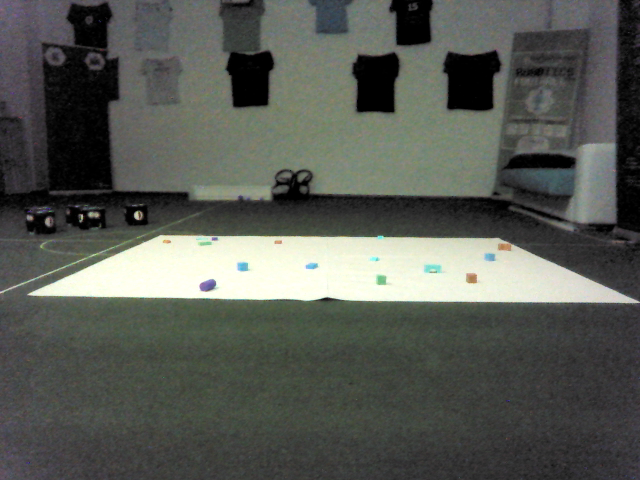
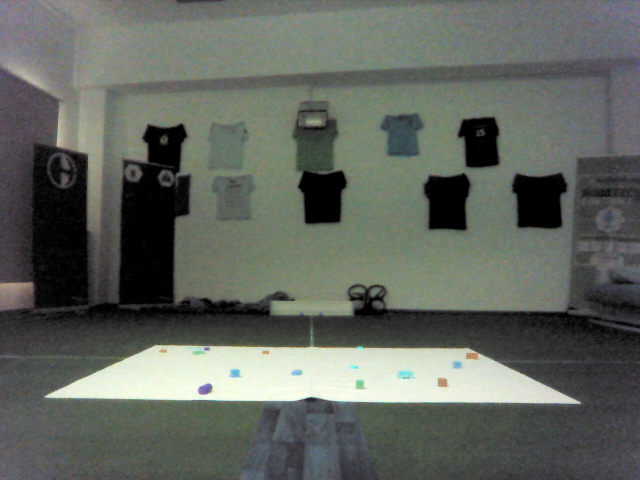
changes moving and perspective parameters

diff --git a/perspective.py b/perspective.py
@@ -14,12 +14,12 @@ hsv = cv2.cvtColor(im, cv2.COLOR_BGR2HSV)
 
 
 # define range of white color in HSV
-lower_green = np.array([110,100,100])
-upper_green = np.array([130,255,255])
+lower_blue = np.array([0,0,168])
+upper_blue = np.array([179,255,255])
 
 
 # Threshold the HSV image to get only green colors
-mask = cv2.inRange(hsv, lower_green, upper_green)
+mask = cv2.inRange(hsv, lower_blue, upper_blue)
 
 
 # Closing 
@@ -42,7 +42,12 @@ topmost = tuple(cnt[cnt[:,:,1].argmin()][0])
 bottommost = tuple(cnt[cnt[:,:,1].argmax()][0])
 rightmost = tuple(cnt[cnt[:,:,0].argmax()][0])
 
-'''
+print leftmost
+print topmost
+print bottommost
+print rightmost
+
+
 # Drawing lines and circles
 hull = cv2.convexHull(cnt,returnPoints = False)
 defects = cv2.convexityDefects(cnt,hull)
@@ -54,11 +59,11 @@ for i in range(defects.shape[0]):
     far = tuple(cnt[f][0])
     cv2.line(im,start,end,[0,255,0],2)
     cv2.circle(im,far,5,[0,0,255],-1)
-'''
+
 
 # Corner coordinates
 #coordinates = [(topmost[0],topmost[1]), (bottommost[0], topmost[1]),(rightmost[0], rightmost[1]), (leftmost[0],leftmost[1])]
-coordinates = [(163,238),(498,241),(633,303),(43,294)]
+coordinates = [(155,348),(471,352),(569,402),(58,394)]
 
 
 # Put coordinates in array
@@ -106,6 +111,6 @@ cv2.imshow("HSV", hsv)
 cv2.imshow("Original", img)
 cv2.imshow("Trapezoid found", im)
 cv2.imshow("Warped", resize)
-cv2.imwrite("areas/edge.jpg",resize)
+#cv2.imwrite("areas/edge.jpg",resize)
 cv2.waitKey(0)
 cv2.destroyAllWindows()

diff --git a/hsv.py b/hsv.py
@@ -2,6 +2,7 @@ import cv2
 import numpy as np
 
 
+cap = cv2.imread("image.png")
 
 def nothing(x):
     pass
@@ -18,7 +19,7 @@ cv2.createTrackbar('v', 'result',0,255,nothing)
 
 while(1):
 
-    frame = cv2.imread('image2.png')
+    frame = cv2.imread("image.png")
 
     #converting to HSV
     hsv = cv2.cvtColor(frame,cv2.COLOR_BGR2HSV)

diff --git a/svm.py b/svm.py
@@ -177,7 +177,7 @@ def path():
 
 	    cv2.imwrite('areas/area-path.png',img)
 
-# SHOW PICTURES
+            # SHOW PICTURES
 	    org = cv2.imread('areas/edge.jpg',0)
 	    path = cv2.imread('areas/area-path.png',0)
 	    plt.subplot(221),plt.imshow(org,cmap = 'gray')
